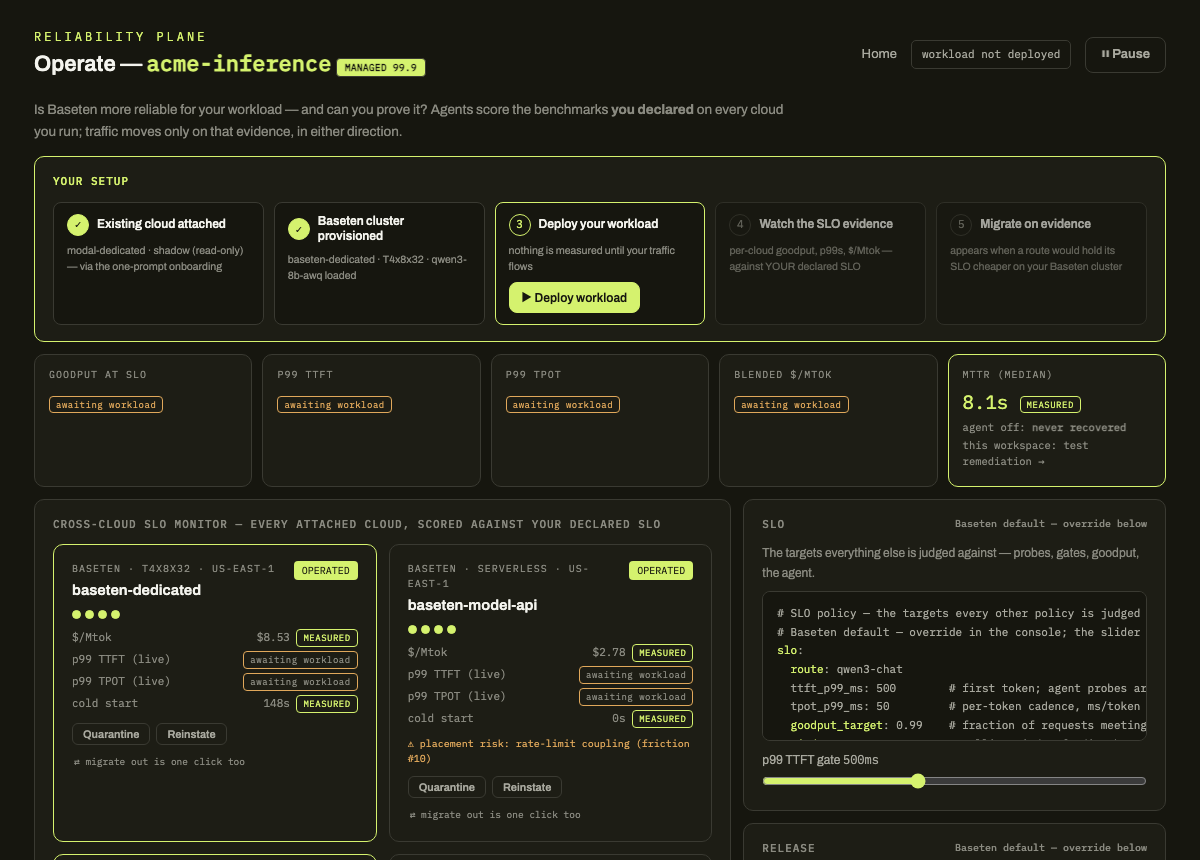
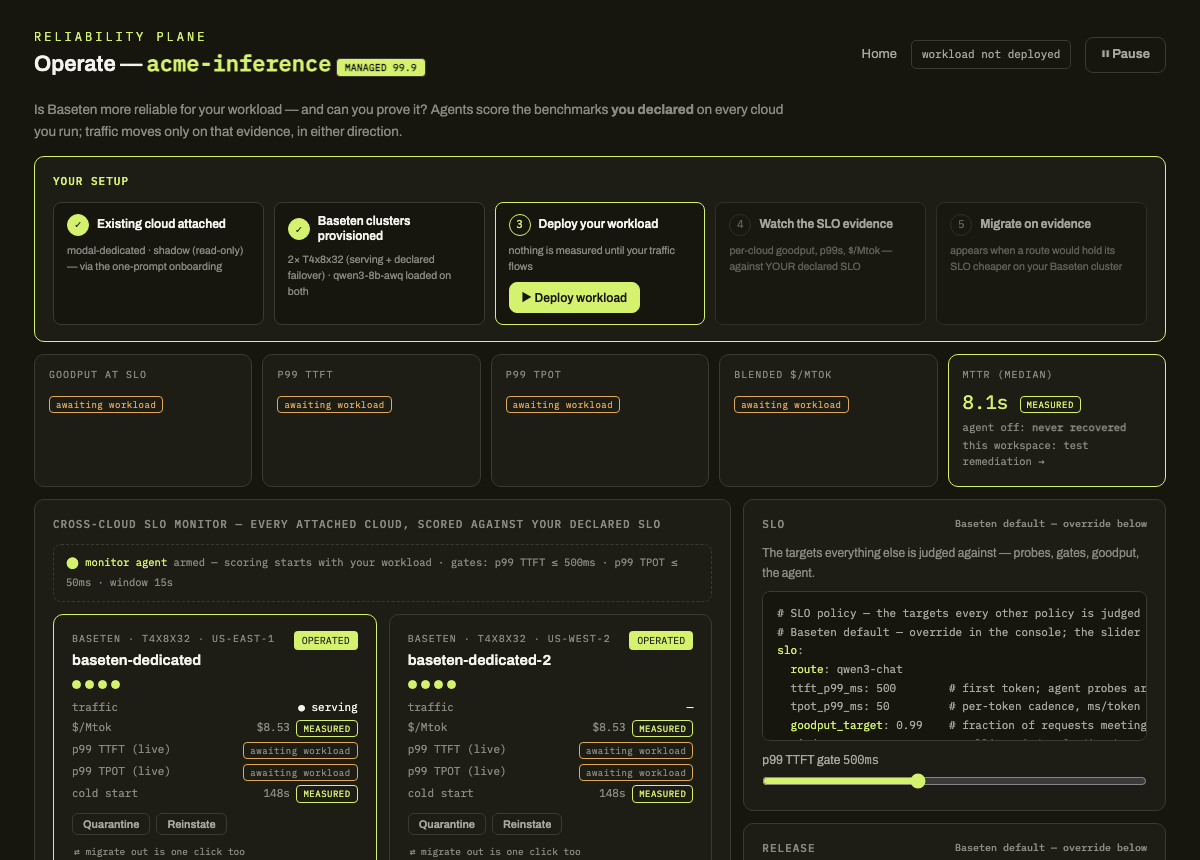
feat: two Baseten clusters with declared failover — monitor agent status strip, per-pool rps, traffic visibly fails over to cluster-2 on quarantine and returns on verified recovery; hipaa demo pool removed

diff --git a/js/sim/engine.js b/js/sim/engine.js
@@ -64,6 +64,7 @@
 
     // ---- shared machinery ----------------------------------------------------
     let t = 0, seq = 0;
+    const lastServing = {};              // route.id -> pool actually serving it
     const events = [];
     const incidents = incidentsMod.createIncidentStore({ clock: () => t });
     const agent = agentMod.createAgentLogic(agentCfg);
@@ -86,6 +87,26 @@
     function effectiveTtft(p) {
       const chaosMs = p.chaos && t < p.chaos.until ? p.chaos.latency_ms : 0;
       return p.ttft_ms + chaosMs;
+    }
+
+    /* Failover as declared policy: when a route's pool is unusable, traffic
+       moves to the first usable pool in failover.spill_order (the second
+       Baseten cluster first, then the serverless Model APIs). This is what
+       keeps the SLO held while a pool is quarantined. */
+    function spillTarget(excludeId) {
+      const order = failover.spill_order || [];
+      for (const id of order) {
+        const p = byId[id];
+        if (p && p.id !== excludeId && operated(p) && usable(p)) return p;
+      }
+      return null;
+    }
+    function effectivePoolId(route) {
+      const p = byId[route.pool];
+      if (!p || usable(p) || !operated(p)) return route.pool;
+      if (!overrides.spill_enabled) return route.pool;   // policy off: degrade in place
+      const s = spillTarget(route.pool);
+      return s ? s.id : route.pool;
     }
 
     // ---- sampling ------------------------------------------------------------
@@ -177,11 +198,13 @@
           case 'act':
             if (incIds.has(e.poolId)) incidents.act(incIds.get(e.poolId), e.action, e.phase);
             break;
-          case 'quarantine':
+          case 'quarantine': {
             p.quarantined = true; setReplicas(p, 'quarantined');
-            emit('agent', `agent: quarantine ${e.poolId} — traffic spills to ` +
-              `${overrides.spill_enabled ? failover.spill_target : 'remaining pools'}`, 'warn');
+            const next = overrides.spill_enabled && spillTarget(e.poolId);
+            emit('agent', `agent: quarantine ${e.poolId} — traffic fails over to ` +
+              `${next ? next.id : 'remaining pools'} per failover-policy`, 'warn');
             break;
+          }
           case 'probe': {
             // streaming-TTFT probe against the sick pool, judged at the SLO gate
             const ms = effectiveTtft(p) * prng.latencyJitter(rand) * 0.8;
@@ -420,9 +443,21 @@
         emit('chaos', `chaos cleared on ${p.id}`, 'info');
       }
       trimWindows();
-      // route traffic: each route generates samples on its serving pool
+      // route traffic lands on the pool that ACTUALLY serves it: the declared
+      // pool, or the failover target while the declared pool is out. Traffic
+      // movement is an event — the operator watches it, never infers it.
       for (const r of routes) {
-        const p = byId[r.pool];
+        const eff = effectivePoolId(r);
+        if (lastServing[r.id] && lastServing[r.id] !== eff) {
+          if (eff !== r.pool) {
+            emit('failover', `failover: ${r.id} → ${eff} (${r.pool} out of rotation) — ` +
+              'per failover-policy spill_order, SLO held', 'warn');
+          } else {
+            emit('failover', `recovery: ${r.id} back on ${r.pool}`, 'ok');
+          }
+        }
+        lastServing[r.id] = eff;
+        const p = byId[eff];
         if (!p) continue;
         const n = Math.max(1, Math.round(r.rps * dt * (0.7 + rand() * 0.6)));
         for (let i = 0; i < n; i++) sample(p, r.id);
@@ -430,19 +465,15 @@
       // internal workload arrivals through the placement scorer
       const arrivals = rand() < 0.75 ? 1 : 2;
       for (let i = 0; i < arrivals; i++) {
-        const w = { id: `wl-${seq}-${i}`, region: 'us-east-1' };
-        if (rand() < 0.12) { w.compliance = 'hipaa'; w.region = 'eu-west-1'; }
-        placeWorkload(w);
+        placeWorkload({ id: `wl-${seq}-${i}`, region: 'us-east-1' });
       }
-      // spill traffic while a pool is quarantined
-      const quarantinedServing = pools.filter(p => p.quarantined && routes.some(r => r.pool === p.id));
-      if (overrides.spill_enabled) {
-        for (const qp of quarantinedServing) {
-          const spill = byId[failover.spill_target];
-          if (spill && usable(spill)) {
-            sample(spill, 'spill:' + qp.id);
-          }
-        }
+      // the monitor speaks: a periodic scored summary in the feed
+      if (t % 12 === 0 && pools.some(p => p.window.length)) {
+        const line = pools.filter(p => p.window.length).map(p => {
+          const p99 = costs.percentile(p.window.map(s => s.ttft), 99);
+          return `${p.id.replace('baseten-', 'bt-')} ${Math.round(p99)}ms ${p99 <= overrides.slo_ttft_ms ? '✓' : '✗'}`;
+        }).join(' · ');
+        emit('monitor', `monitor: p99 TTFT vs ${overrides.slo_ttft_ms}ms gate — ${line}`, 'info');
       }
       // agent
       const { sigs, healthy } = signals();
@@ -464,7 +495,8 @@
           compliance_regimes: p.compliance_regimes || [],
           replicas: p.replicas.map(r => r.state),
           quarantined: p.quarantined, healthy: p.healthy,
-          serving: routes.some(r => r.pool === p.id),
+          serving: routes.some(r => effectivePoolId(r) === p.id),
+          rps: Math.round(p.window.filter(s => s.t > t - 5).length / 5 * 10) / 10,
           usd_per_mtok: p.usd_per_mtok, usd_hr: p.usd_hr,
           cold_start_s: p.cold_start_s, cold_mitigation: p.cold_mitigation,
           sla: p.sla,
@@ -495,6 +527,24 @@
       get t() { return t; },
       // views
       heroMetrics, poolsView, winbackView,
+      /* The cross-cloud SLO monitor's own status: what it scores, against
+         which gates, and the per-cloud verdict — the agent made visible. */
+      monitorView: () => ({
+        gate_ttft_ms: overrides.slo_ttft_ms,
+        gate_tpot_ms: slo.tpot_p99_ms,
+        window_s: WINDOW_S,
+        pools: pools.map(p => {
+          const ttft = costs.percentile(p.window.map(s => s.ttft), 99);
+          const tpot = costs.percentile(p.window.map(s => s.tpot), 99);
+          return { id: p.id, control: p.control, samples: p.window.length,
+                   ttft_p99_ms: ttft,
+                   ok: ttft == null ? null
+                     : ttft <= overrides.slo_ttft_ms && tpot <= slo.tpot_p99_ms };
+        }),
+      }),
+      routesServingView: () => routes.map(r => ({
+        id: r.id, declared: r.pool, serving: effectivePoolId(r),
+      })),
       eventsView: () => [...events],
       sparksView: () => ({ goodput: [...sparks.goodput], ttft: [...sparks.ttft],
                            tpot: [...sparks.tpot], cost: [...sparks.cost] }),

diff --git a/tests/engine.test.js b/tests/engine.test.js
@@ -89,6 +89,37 @@ test('win-back card appears for the external route that is cheaper at equal SLO'
   assert.ok(recs[0].delta_pct > 0);
 });
 
+test('failover: quarantining cluster-1 moves its route to cluster-2, and recovery returns it', () => {
+  const eng = boot(42);
+  for (let i = 0; i < 6; i++) eng.tick(1);
+  assert.strictEqual(eng.routesServingView().find(r => r.id === 'chat-prod').serving,
+    'baseten-dedicated', 'declared pool serves while healthy');
+  eng.operatorQuarantine('baseten-dedicated');
+  for (let i = 0; i < 5; i++) eng.tick(1);
+  const r = eng.routesServingView().find(r => r.id === 'chat-prod');
+  assert.strictEqual(r.serving, 'baseten-dedicated-2',
+    'traffic failed over to the second Baseten cluster per spill_order');
+  const b2 = eng.poolsView().find(p => p.id === 'baseten-dedicated-2');
+  assert.ok(b2.serving && b2.rps > 0, 'cluster-2 visibly carries the traffic');
+  assert.ok(eng.eventsView().some(e => e.kind === 'failover' &&
+    e.text.includes('chat-prod → baseten-dedicated-2')), 'failover is an event, not an inference');
+  eng.operatorReinstate('baseten-dedicated');
+  for (let i = 0; i < 3; i++) eng.tick(1);
+  assert.strictEqual(eng.routesServingView().find(r => r.id === 'chat-prod').serving,
+    'baseten-dedicated', 'recovery returns traffic to the declared pool');
+  assert.ok(eng.eventsView().some(e => e.text.startsWith('recovery: chat-prod')));
+});
+
+test('failover disabled by policy: traffic stays on the declared pool', () => {
+  const eng = boot(42);
+  for (let i = 0; i < 4; i++) eng.tick(1);
+  eng.setOverride('spill_enabled', false);
+  eng.operatorQuarantine('baseten-dedicated');
+  for (let i = 0; i < 4; i++) eng.tick(1);
+  assert.strictEqual(eng.routesServingView().find(r => r.id === 'chat-prod').serving,
+    'baseten-dedicated', 'no spill when the policy toggle is off');
+});
+
 test('hero metrics are null before traffic — no zeros pretending to be data', () => {
   const eng = boot(42);
   const h = eng.heroMetrics();

diff --git a/js/data/recorded.js b/js/data/recorded.js
@@ -54,16 +54,18 @@
         'Record real numbers with bench/ against any OpenAI-compatible Modal endpoint ' +
         'and drop the CSV in data/recorded/.',
     },
-    'hipaa-eu-pool': {
-      replicas: 2,
-      ttft_ms: 380, tpot_ms: 40,
-      usd_hr: 2.40,               // L4:2x24x96 $0.04002/min, published price
-      usd_per_mtok: 26.7,
-      cold_start_s: 60, cold_mitigation: 'none (demo pool)',
+    'baseten-dedicated-2': {
+      replicas: 4,
+      ttft_ms: 330, tpot_ms: 34,
+      usd_hr: 0.9024,             // same T4x8x32 SKU as cluster 1
+      usd_per_mtok: 8.53,
+      cold_start_s: 148, cold_mitigation: 'BDN weights cache (same config as cluster 1)',
       sla: '99.9% (published)',
-      source: 'simulated',
-      provenance: 'SIMULATED — exists to demo compliance right-of-way (F1.4) without pretending ' +
-        'to real HIPAA capacity. Instance price is Baseten’s published L4:2x24x96 rate.',
+      source: 'measured',
+      provenance: 'Second cluster of the same deployment config as baseten-dedicated (T4x8x32, ' +
+        'vLLM, Qwen3-8B-AWQ, BDN weights): operating point from the same committed deployment ' +
+        'logs (FRICTION_LOG #15/#17); $/Mtok = published $0.9024/hr ÷ measured 29.4 tok/s. ' +
+        'Declared as the failover cluster in failover-policy.yaml.',
     },
   };
 

diff --git a/js/ui/pools.js b/js/ui/pools.js
@@ -34,6 +34,7 @@
       </div>
       ${dots(p.replicas)}
       <div class="stats mono">
+        <div><span>traffic</span><span class="v">${p.rps > 0 ? p.rps + ' rps' + (p.serving ? ' ● serving' : '') : (p.serving ? '● serving' : '—')}</span></div>
         <div><span>$/Mtok</span><span>${chipped(fmt.usd(p.usd_per_mtok), kind, p.provenance)}</span></div>
         <div><span>p99 TTFT (live)</span><span>${chipped(fmt.ms(p.ttft_p99_ms), 'simulated', 'Live sim window, anchored on the recorded operating point: ' + p.provenance)}</span></div>
         <div><span>p99 TPOT (live)</span><span>${chipped(fmt.msTok(p.tpot_p99_ms), 'simulated', 'Live sim window.')}</span></div>
@@ -69,5 +70,20 @@
     stripEl.innerHTML = strip(pools, profiles);
   }
 
-  root.RP.ui.pools = { render };
+  /* The monitor agent's own status line — what it scores, against which
+     gates, and each cloud's live verdict. */
+  function renderMonitor(el, m) {
+    const scored = m.pools.filter(p => p.samples > 0);
+    if (!scored.length) {
+      el.innerHTML = `<span class="mag">⬤ monitor agent</span> armed — scoring starts with your workload · gates: p99 TTFT ≤ ${m.gate_ttft_ms}ms · p99 TPOT ≤ ${m.gate_tpot_ms}ms · window ${m.window_s}s`;
+      return;
+    }
+    const verdicts = m.pools.map(p => p.samples === 0
+      ? `<span class="mv dim">${esc(p.id)} —</span>`
+      : `<span class="mv ${p.ok ? 'ok' : 'bad'}">${esc(p.id)} ${Math.round(p.ttft_p99_ms)}ms ${p.ok ? '✓' : '✗ BREACH'}</span>`
+    ).join(' ');
+    el.innerHTML = `<span class="mag">⬤ monitor agent</span> scoring ${scored.length}/${m.pools.length} clouds every 1s vs your gates (TTFT ≤ ${m.gate_ttft_ms}ms · TPOT ≤ ${m.gate_tpot_ms}ms, ${m.window_s}s window): ${verdicts}`;
+  }
+
+  root.RP.ui.pools = { render, renderMonitor };
 })(globalThis);

diff --git a/tests/policies.test.js b/tests/policies.test.js
@@ -38,18 +38,21 @@ test('yaml-lite parses release-policy (nested maps, inline lists, bools)', () =>
 test('yaml-lite parses placement-policy (block list of maps, comments)', () => {
   const p = yaml.parse(file('placement'));
   assert.deepStrictEqual(p.capacity_preference, ['reserved', 'cheapest', 'lowest_latency']);
-  assert.strictEqual(p.pools.length, 4, 'exactly the four fixed pools (RunPod row stays commented)');
+  assert.strictEqual(p.pools.length, 4, 'exactly the four pools (RunPod row stays commented)');
   const ids = p.pools.map(x => x.id);
-  assert.deepStrictEqual(ids, ['baseten-dedicated', 'baseten-model-api', 'modal-dedicated', 'hipaa-eu-pool']);
-  const hipaa = p.pools[3];
-  assert.deepStrictEqual(hipaa.tags, ['sensitive']);
-  assert.deepStrictEqual(hipaa.compliance_regimes, ['hipaa']);
-  assert.strictEqual(p.pools[2].control, 'monitor-only');
+  assert.deepStrictEqual(ids, ['baseten-dedicated', 'baseten-dedicated-2',
+                               'baseten-model-api', 'modal-dedicated']);
+  const cluster2 = p.pools[1];
+  assert.strictEqual(cluster2.control, 'operated');
+  assert.deepStrictEqual(cluster2.tags, ['reserved'], 'the declared failover cluster');
+  assert.strictEqual(p.pools[3].control, 'monitor-only');
 });
 
 test('yaml-lite parses failover-policy (folded multi-line values)', () => {
   const p = yaml.parse(file('failover'));
-  assert.strictEqual(p.failover.spill_target, 'baseten-model-api');
+  assert.deepStrictEqual(p.failover.spill_order,
+    ['baseten-dedicated-2', 'baseten-model-api'],
+    'second cluster first, serverless absorbs the rest');
   assert.strictEqual(p.hazards[0].friction, 10);
   assert.ok(p.hazards[0].note.includes('SAME budget'), 'folded lines joined');
 });

diff --git a/css/console.css b/css/console.css
@@ -32,6 +32,14 @@
 .tile .sub{font-size:10.5px;color:var(--dim);margin-top:3px}
 .tile svg.spark{margin-top:4px}
 
+/* monitor agent status line */
+.monitor{font-size:10.5px;color:var(--dim);line-height:1.9;border:1px dashed var(--line);border-radius:8px;padding:8px 12px;margin-bottom:12px}
+.monitor .mag{color:var(--lime)}
+.monitor .mv{border:1px solid var(--line);border-radius:4px;padding:1px 7px;white-space:nowrap}
+.monitor .mv.ok{color:var(--lime);border-color:rgba(213,242,110,.4)}
+.monitor .mv.bad{color:var(--amber);border-color:var(--amber)}
+.monitor .mv.dim{color:var(--dim)}
+
 /* pool grid */
 #pools{display:grid;grid-template-columns:1fr 1fr;gap:12px}
 @media(max-width:640px){#pools{grid-template-columns:1fr}}

diff --git a/index.html b/index.html
@@ -250,9 +250,10 @@ API key, and install the Baseten agent skills (basetenlabs/baseten-skills).
   <h2>The console opens where you'd actually start.</h2>
   <div class="door">
     <p class="scen">Your setup is done: <b>your existing cloud is attached in shadow</b> (Modal,
-    read-only) and <b>your Baseten dedicated cluster is provisioned</b> (T4x8x32, Qwen3-8B).
-    Deploy your workload, watch the SLO evidence accumulate per cloud, and migrate traffic when
-    it holds — at the cheaper measured price.</p>
+    read-only) and <b>two Baseten clusters are provisioned</b> (T4x8x32 — serving + declared
+    failover, Qwen3-8B on both). Deploy your workload, watch the SLO evidence accumulate per
+    cloud, migrate traffic when it holds at the cheaper measured price — and if a cluster
+    degrades, watch remediation move traffic before your SLO breaks.</p>
     <a class="go" href="operate.html">Open the console →</a>
     <p class="thesis">The question it answers: <b>is Baseten more reliable for your workload — and
     can you prove it?</b> Agents score the benchmarks you declared on every cloud you run, and

diff --git a/js/ui/setup.js b/js/ui/setup.js
@@ -11,10 +11,10 @@
     const steps = [
       { n: 1, title: 'Existing cloud attached', state: 'done',
         sub: 'modal-dedicated · shadow (read-only) — via the one-prompt onboarding' },
-      { n: 2, title: 'Baseten cluster provisioned', state: 'done',
-        sub: 'baseten-dedicated · T4x8x32 · qwen3-8b-awq loaded' },
+      { n: 2, title: 'Baseten clusters provisioned', state: 'done',
+        sub: '2× T4x8x32 (serving + declared failover) · qwen3-8b-awq loaded on both' },
       { n: 3, title: 'Deploy your workload', state: deployed ? 'done' : 'now',
-        sub: deployed ? 'chat-prod + voice-agent serving — traffic flowing to both clouds'
+        sub: deployed ? 'same workload on both clouds — modal keeps serving voice-agent, your Baseten cluster runs chat-prod'
                       : 'nothing is measured until your traffic flows',
         action: deployed ? null : { id: 'deploy', label: '▶ Deploy workload' } },
       { n: 4, title: 'Watch the SLO evidence', state: !deployed ? 'todo' : (samples > 30 ? 'done' : 'now'),

diff --git a/js/data/policies.js b/js/data/policies.js
@@ -11,7 +11,7 @@
   return {
     "slo": "# SLO policy — the targets every other policy is judged against (F1.1).\n# Baseten default — override in the console; the slider edits ttft_p99_ms live.\nslo:\n  route: qwen3-chat\n  ttft_p99_ms: 500        # first token; agent probes are streaming-TTFT judged HERE\n  tpot_p99_ms: 50         # per-token cadence, ms/token\n  goodput_target: 0.99    # fraction of requests meeting BOTH gates\n  window_s: 15            # rolling window feeding breach detection\n\n# Agent detection thresholds (ported from the recorded live incidents)\nagent:\n  breach_rate_threshold: 0.5\n  min_samples: 4\n  probe_interval_s: 3\n  probes_to_reinstate: 2\n  cooldown_s: 30\n  escalate_after_failures: 5\n",
     "release": "# Release policy — declarative, safe rollouts (F1.2).\n# Baseten default — override in the console (canary steps toggle).\nrollouts:\n  default:\n    mode: canary            # canary | shadow | ab\n    steps: [5, 25, 100]     # candidate traffic % per gated step\n    warmup: true            # pre-warm candidate before shifting traffic\n    drain: true             # drain stable without cutting in-flight generations\n    probe:                  # success gate evaluated before each step advances\n      metric: ttft_p99_ms\n      max_ms: 500\n      window: 20\n    auto_rollback: true     # a failed probe rolls back automatically\n\n  shadow-eval:\n    mode: shadow            # mirror traffic to candidate; client sees stable\n    steps: [0]\n    warmup: true\n    drain: false\n",
-    "placement": "# Placement policy — WHERE workloads may land: region, compliance regime,\n# capacity preference, and right-of-way for compliance-bound work (F1.3, F1.4).\n# Baseten default — override in the console (capacity_preference toggle).\ncapacity_preference: [reserved, cheapest, lowest_latency]\n\ncompliance:\n  regimes: [hipaa, pci]\n  sensitive_capacity_tags: [sensitive]\n\n# The multi-cloud pool set this console operates over. `control` is the trust\n# ladder: operated = full control surface; monitor-only = read-only telemetry\n# plus exactly one affordance (Migrate route).\npools:\n  - id: baseten-dedicated\n    provider: baseten\n    instance: T4x8x32\n    region: us-east-1\n    control: operated\n    cold_start_s: 148          # measured, BDN weights cache (friction #17; 360s before)\n    cost_rank: 2\n    tags: [reserved]\n  - id: baseten-model-api\n    provider: baseten\n    instance: serverless\n    region: us-east-1\n    control: operated\n    cold_start_s: 0            # always-on shared capacity\n    cost_rank: 1\n    tags: []\n    hazards: [rate-limit-coupling]   # friction #10: per-model-per-workspace 429 quota\n  - id: modal-dedicated\n    provider: modal\n    instance: A10G\n    region: us-east-1\n    control: monitor-only      # external cloud: telemetry in, no control out\n    cold_start_s: 4            # simulated from Modal's published GPU-snapshot cold starts\n    cost_rank: 3\n    tags: []\n  - id: hipaa-eu-pool\n    provider: baseten\n    instance: L4x2x24\n    region: eu-west-1\n    control: operated\n    cold_start_s: 60           # simulated; exists to demo right-of-way (F1.4)\n    cost_rank: 4\n    tags: [sensitive]\n    compliance_regimes: [hipaa]\n  # Worked example: attach any OpenAI-compatible endpoint read-only.\n  # Uncomment, add url + read key in your own deployment of this console.\n  # - id: runpod-community\n  #   provider: runpod\n  #   instance: RTX4090\n  #   region: eu-west-1\n  #   control: monitor-only\n  #   cold_start_s: 120\n  #   cost_rank: 1\n  #   tags: []\n",
-    "failover": "# Failover policy — where traffic spills when a pool is quarantined or down (F1.5).\n# Baseten default — override in the console (spill-target toggle).\nfailover:\n  spill_target: baseten-model-api   # serverless Model APIs absorb quarantined traffic\n  spill_on: [quarantine, pool_down, capacity_wait]\n  drain_before_stop: true           # a draining replica stops only at 0 in-flight\n\n# Known hazards the placement scorer must price in — real failure classes\n# from the friction log, never invented ones.\nhazards:\n  - id: rate-limit-coupling\n    pool: baseten-model-api\n    friction: 10\n    note: per-model-per-workspace 429 quota; spilled traffic and recovery\n      probes spend the SAME budget, so a spill can starve verification\n  - id: capacity-wait\n    pool: baseten-dedicated\n    friction: 6\n    note: scarce SKUs can sit DEPLOYING with no queue position; placement\n      must surface WAITING_FOR_CAPACITY with an alternative, never hang silent\n",
+    "placement": "# Placement policy — WHERE workloads may land: region, compliance regime,\n# capacity preference, and right-of-way for compliance-bound work (F1.3, F1.4).\n# Baseten default — override in the console (capacity_preference toggle).\ncapacity_preference: [reserved, cheapest, lowest_latency]\n\ncompliance:\n  regimes: [hipaa, pci]\n  sensitive_capacity_tags: [sensitive]\n\n# The multi-cloud pool set this console operates over. `control` is the trust\n# ladder: operated = full control surface; monitor-only = read-only telemetry\n# plus exactly one affordance (Migrate route).\npools:\n  - id: baseten-dedicated\n    provider: baseten\n    instance: T4x8x32\n    region: us-east-1\n    control: operated\n    cold_start_s: 148          # measured, BDN weights cache (friction #17; 360s before)\n    cost_rank: 2\n    tags: [reserved]\n  - id: baseten-dedicated-2\n    provider: baseten\n    instance: T4x8x32\n    region: us-west-2\n    control: operated\n    cold_start_s: 148          # same config as cluster 1\n    cost_rank: 3\n    tags: [reserved]           # the failover cluster the FailoverPolicy declares\n  - id: baseten-model-api\n    provider: baseten\n    instance: serverless\n    region: us-east-1\n    control: operated\n    cold_start_s: 0            # always-on shared capacity\n    cost_rank: 1\n    tags: []\n    hazards: [rate-limit-coupling]   # friction #10: per-model-per-workspace 429 quota\n  - id: modal-dedicated\n    provider: modal\n    instance: A10G\n    region: us-east-1\n    control: monitor-only      # external cloud: telemetry in, no control out\n    cold_start_s: 4            # simulated from Modal's published GPU-snapshot cold starts\n    cost_rank: 4\n    tags: []\n  # Worked example: attach any OpenAI-compatible endpoint read-only.\n  # Uncomment, add url + read key in your own deployment of this console.\n  # - id: runpod-community\n  #   provider: runpod\n  #   instance: RTX4090\n  #   region: eu-west-1\n  #   control: monitor-only\n  #   cold_start_s: 120\n  #   cost_rank: 1\n  #   tags: []\n",
+    "failover": "# Failover policy — where traffic goes when a pool is quarantined or down (F1.5).\n# Baseten default — override in the console (failover toggle).\nfailover:\n  # ordered: the second dedicated cluster takes over first (same SKU, same\n  # model, no cold surprise); the serverless Model APIs absorb anything left\n  spill_order: [baseten-dedicated-2, baseten-model-api]\n  spill_on: [quarantine, pool_down, capacity_wait]\n  drain_before_stop: true           # a draining replica stops only at 0 in-flight\n\n# Known hazards the failover path must price in — real failure classes\n# from the friction log, never invented ones.\nhazards:\n  - id: rate-limit-coupling\n    pool: baseten-model-api\n    friction: 10\n    note: per-model-per-workspace 429 quota; spilled traffic and recovery\n      probes spend the SAME budget, so a spill can starve verification\n  - id: capacity-wait\n    pool: baseten-dedicated\n    friction: 6\n    note: scarce SKUs can sit DEPLOYING with no queue position; placement\n      must surface WAITING_FOR_CAPACITY with an alternative, never hang silent\n",
   };
 });

diff --git a/js/ui/policy-rail.js b/js/ui/policy-rail.js
@@ -40,9 +40,9 @@
       },
       {
         name: 'failover-policy', title: 'Failover',
-        summary: 'Quarantined traffic spills to the Model API pool — priced with its real #10 hazard.',
+        summary: 'A quarantined pool\'s traffic fails over in declared order: your second Baseten cluster first, then the Model API pool (priced with its real #10 hazard).',
         controls: `
-          <label class="ctl"><input type="checkbox" id="spill-toggle" ${overrides.spill_enabled ? 'checked' : ''}> spill to <span class="mono">baseten-model-api</span></label>`,
+          <label class="ctl"><input type="checkbox" id="spill-toggle" ${overrides.spill_enabled ? 'checked' : ''}> failover per <span class="mono">spill_order</span> (cluster-2 → model-api)</label>`,
       },
     ];
     el.innerHTML = cards.map(c => `

diff --git a/operate.html b/operate.html
@@ -44,6 +44,7 @@ Is Baseten more reliable for your workload — and can you prove it? Agents scor
     <!-- pool grid -->
     <div class="card" style="margin-bottom:12px">
       <h3>CROSS-CLOUD SLO MONITOR — every attached cloud, scored against your declared SLO</h3>
+      <div id="monitor" class="monitor mono" aria-live="polite"></div>
       <div id="pools"></div>
       <div class="slo-strip-card">
         <h3 style="margin-top:14px">SLO vs SLA — what we measure against what they publish</h3>
@@ -69,7 +70,7 @@ Is Baseten more reliable for your workload — and can you prove it? Agents scor
     <div class="card" id="panel-incidents">
       <h3>AUTO-REMEDIATION — the agent on your Baseten pools (closed allowlist, guards that refuse)</h3>
       <div class="panel-actions">
-        <button id="btn-drill" class="primary" data-tip="Injects real chaos into a Baseten pool. The agent detects the SLO breach from live samples, quarantines, verifies with streaming probes, reinstates. MTTR on the clock.">Test remediation (drill)</button>
+        <button id="btn-drill" class="primary" data-tip="Degrades cluster-1 with real chaos. The agent detects the SLO breach from live samples, quarantines, and traffic fails over to cluster-2 (watch the rps move) — then probes verify recovery and traffic returns. MTTR on the clock.">Test remediation (drill)</button>
         <button id="btn-rigged" class="danger" data-tip="Takes every other operated pool out first, then degrades the last one. The agent must refuse to quarantine it — and say why." tabindex="0">Test the guard</button>
       </div>
       <div id="incident"></div>

diff --git a/js/ui/console.js b/js/ui/console.js
@@ -37,6 +37,7 @@
     });
     RP.ui.hero.render($('hero'), engine.heroMetrics(), engine.sparksView(),
       RP.recorded.mttr, engine.incidentsView().find(i => !i.live)?.mttr_s ?? null);
+    RP.ui.pools.renderMonitor($('monitor'), engine.monitorView());
     RP.ui.pools.render($('pools'), $('slo-strip'), engine.poolsView(), profiles);
     RP.ui.feed.render($('feed'), engine.eventsView(), { paused: feedPaused });
     RP.ui.releasePanel.renderRollout($('rollout'), engine.releaseView(), engine.overrides.canary_steps);